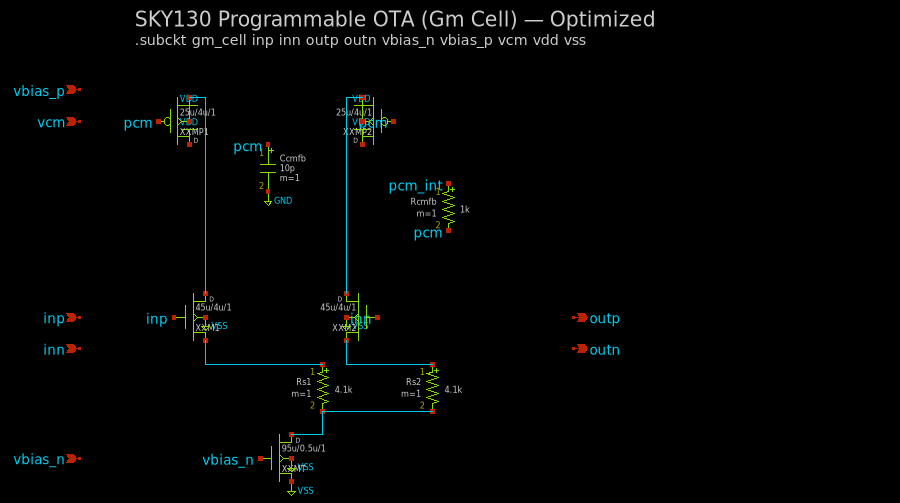
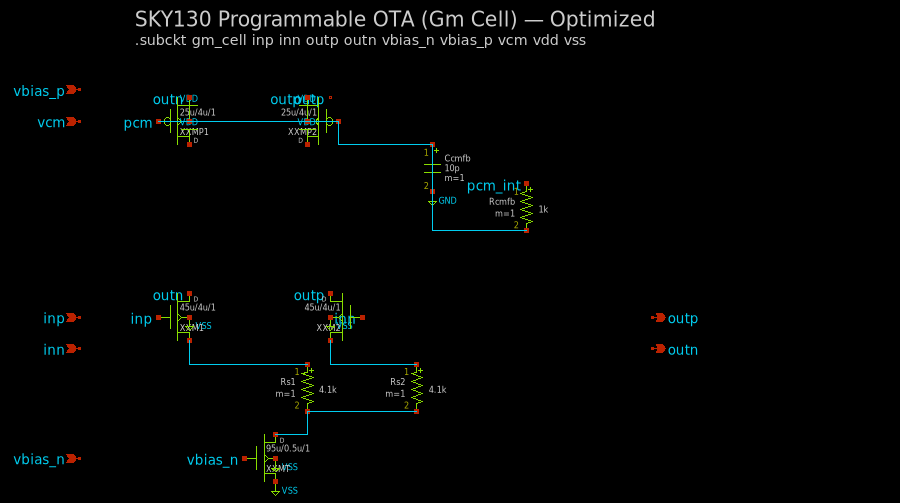
Supply resistors placed at signal centroid, not first neighbor
Load resistors (RL1, RL2) now centered above their output net connections
instead of offset to one side.

All 7 circuits at 0 wire crossings.

diff --git a/src/placer.py b/src/placer.py
@@ -712,13 +712,16 @@ def place_circuit(circuit: Circuit) -> PlacedCircuit:
         else:
             other_passives.append(name)
 
-    # Place supply-connected passives near the signal-side component
+    # Place supply-connected passives near the signal-side component centroid
     for name in supply_passives:
         comp = circuit.components[name]
         pin1_type = _classify_net(circuit, comp.pins.get("pin1", ""))
         pin2_type = _classify_net(circuit, comp.pins.get("pin2", ""))
         signal_pin = "pin2" if pin1_type in ("supply", "ground") else "pin1"
-        pos = _find_pin_neighbor_pos(circuit, name, signal_pin, result)
+        # Use centroid of all placed neighbors on the signal pin
+        pos = _find_pin_centroid(circuit, name, signal_pin, result)
+        if not pos:
+            pos = _find_pin_neighbor_pos(circuit, name, signal_pin, result)
         if pos:
             cx, cy = pos
             # Capacitors: place near signal connection, not at supply rail
@@ -893,6 +896,22 @@ def _has_placed_neighbors(circuit: Circuit, comp_name: str, pin_name: str, place
             if cn != comp_name and cn in placed.placements:
                 return True
     return False
+
+
+def _find_pin_centroid(circuit: Circuit, comp_name: str, pin_name: str, placed: PlacedCircuit) -> tuple | None:
+    """Find centroid of all placed components connected to a specific pin."""
+    comp = circuit.components[comp_name]
+    net_name = comp.pins.get(pin_name, "")
+    if net_name in circuit.nets:
+        positions = []
+        for cn, pn in circuit.nets[net_name].connections:
+            if cn != comp_name and cn in placed.placements:
+                p = placed.placements[cn]
+                positions.append((p.x, p.y))
+        if positions:
+            return (sum(x for x, y in positions) / len(positions),
+                    sum(y for x, y in positions) / len(positions))
+    return None
 
 
 def _find_pin_neighbor_pos(circuit: Circuit, comp_name: str, pin_name: str, placed: PlacedCircuit) -> tuple | None:
